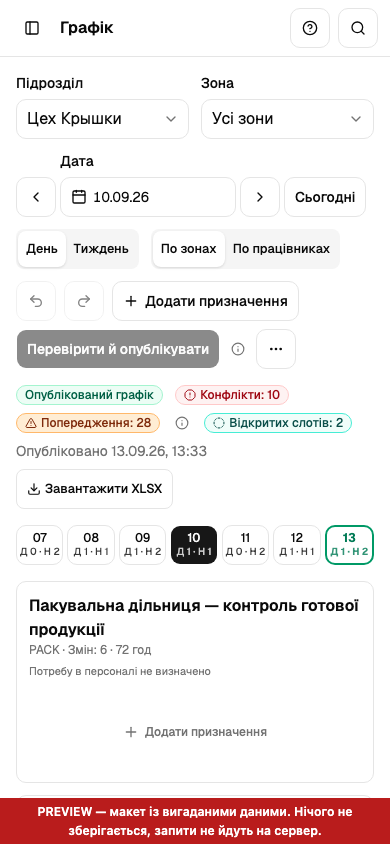
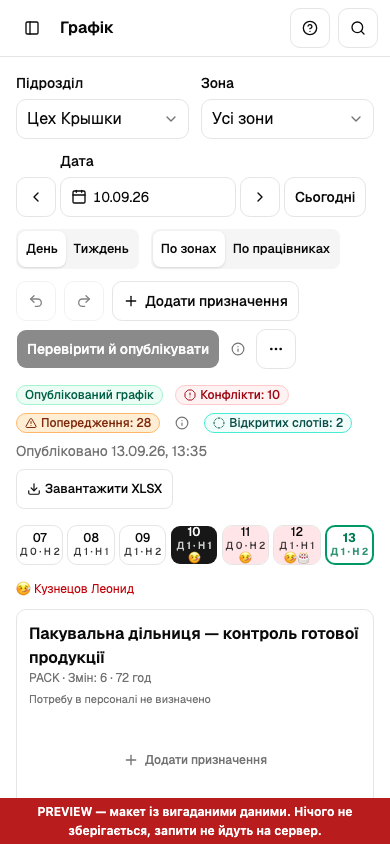
fix(schedule): event column tints, today tint restored, selection cleared on close, read-only reason
Day columns get a translucent tint by their most important event
(holiday rose, absence red, birthday violet) and the header lists who
is absent or celebrating with an icon; today keeps its green tint under
the bold frame. Closing the shift Sheet drops the card selection, so the
pressed style never outlives the panel. When the Sheet actions are
disabled, an information icon explains why (stale plan, review, existing
draft, rights, zone scope, running command).

diff --git a/apps/admin-web/src/shared/ui/resource-calendar/resource-calendar.tsx b/apps/admin-web/src/shared/ui/resource-calendar/resource-calendar.tsx
@@ -52,6 +52,8 @@ interface ResourceCalendarProps {
   readonly detail?: ReactNode;
   readonly onDate: (date: string) => void;
   readonly onSelect: (selection: CalendarSelection) => void;
+  /** Closing the details drops the selection, so the pressed card style never outlives the panel. */
+  readonly onClearSelection?: () => void;
   readonly onCreate: (selection: CalendarSelection) => void;
   /** Items matching the emphasis get a ring and the rest fade, so a count becomes visible places. */
   readonly emphasis?: CalendarEmphasis | null;
@@ -62,6 +64,22 @@ interface ResourceCalendarProps {
   ) => void;
 }
 export type CalendarEmphasis = 'unpublished' | 'WARN' | 'BLOCK';
+/** Translucent column tints by day event; the header text and icons carry the meaning. */
+const HEADER_TINT = {
+  holiday: 'bg-rose-500/15 dark:bg-rose-400/20',
+  absence: 'bg-red-500/12 dark:bg-red-400/20',
+  birthday: 'bg-violet-500/15 dark:bg-violet-400/20',
+} as const;
+const COLUMN_TINT = {
+  holiday: 'bg-rose-500/6 dark:bg-rose-400/10',
+  absence: 'bg-red-500/5 dark:bg-red-400/10',
+  birthday: 'bg-violet-500/6 dark:bg-violet-400/10',
+} as const;
+const EVENT_TEXT = {
+  holiday: 'text-rose-700 dark:text-rose-300',
+  absence: 'text-red-700 dark:text-red-300',
+  birthday: 'text-violet-700 dark:text-violet-300',
+} as const;
 function emphasized(item: CalendarItem, emphasis: CalendarEmphasis): boolean {
   if (emphasis === 'unpublished') return !!item.unpublished && !item.readonly;
   return item.issue === emphasis;
@@ -284,12 +302,18 @@ export function ResourceCalendar(props: ResourceCalendarProps) {
                   date.today &&
                     selectedDate !== date.id &&
                     'border-2 border-emerald-600 font-bold text-emerald-700 dark:border-emerald-500 dark:text-emerald-300',
+                  date.tone && selectedDate !== date.id && HEADER_TINT[date.tone],
                 )}
                 onClick={() => onDate(date.id)}
               >
                 <span>{date.shortLabel}</span>
                 {date.summary && <span className="text-[10px] opacity-80">{date.summary}</span>}
                 {date.holiday && <span className="text-[10px]">🎉</span>}
+                {date.events && date.events.length > 0 && (
+                  <span className="text-[10px]">
+                    {date.events.map((event) => event.slice(0, 2)).join('')}
+                  </span>
+                )}
               </Button>
             ))}
           </div>
@@ -302,7 +326,13 @@ export function ResourceCalendar(props: ResourceCalendarProps) {
                   <span className="mr-2 text-rose-700 dark:text-rose-300">🎉 {day.holiday}</span>
                 )}
                 {day.events?.map((event) => (
-                  <span key={event} className="mr-2 text-violet-700 dark:text-violet-300">
+                  <span
+                    key={event}
+                    className={cn(
+                      'mr-2',
+                      event.startsWith('🎂') ? EVENT_TEXT.birthday : EVENT_TEXT.absence,
+                    )}
+                  >
                     {event}
                   </span>
                 ))}
@@ -347,9 +377,9 @@ export function ResourceCalendar(props: ResourceCalendarProps) {
                     className={cn(
                       'w-34 whitespace-normal px-2 py-1.5 text-center align-top',
                       date.today &&
-                        'shadow-[inset_3px_0_0_var(--color-emerald-600),inset_-3px_0_0_var(--color-emerald-600),inset_0_3px_0_var(--color-emerald-600)] dark:shadow-[inset_3px_0_0_var(--color-emerald-500),inset_-3px_0_0_var(--color-emerald-500),inset_0_3px_0_var(--color-emerald-500)]',
+                        'bg-emerald-500/15 shadow-[inset_3px_0_0_var(--color-emerald-600),inset_-3px_0_0_var(--color-emerald-600),inset_0_3px_0_var(--color-emerald-600)] dark:bg-emerald-400/20 dark:shadow-[inset_3px_0_0_var(--color-emerald-500),inset_-3px_0_0_var(--color-emerald-500),inset_0_3px_0_var(--color-emerald-500)]',
                       date.readonly && 'bg-muted/40 text-muted-foreground',
-                      date.holiday && 'bg-rose-50/70 dark:bg-rose-950/40',
+                      date.tone && !date.today && HEADER_TINT[date.tone],
                       // The container clips at its rounded corners; give the corner cells the same
                       // radius so a solid header or frame follows the curve instead of being cut.
                       index === model.dates.length - 1 && 'rounded-tr-lg',
@@ -390,7 +420,7 @@ export function ResourceCalendar(props: ResourceCalendarProps) {
                         key={event}
                         className={cn(
                           'block text-[11px] font-normal [overflow-wrap:anywhere]',
-                          'text-violet-700 dark:text-violet-300',
+                          event.startsWith('🎂') ? EVENT_TEXT.birthday : EVENT_TEXT.absence,
                         )}
                       >
                         {event}
@@ -420,13 +450,16 @@ export function ResourceCalendar(props: ResourceCalendarProps) {
                       key={cell.date}
                       className={cn(
                         'whitespace-normal p-1.5 align-top',
+                        model.dates[index]?.tone &&
+                          !model.dates[index]?.today &&
+                          COLUMN_TINT[model.dates[index].tone],
                         rowIndex === rows.length - 1 &&
                           index === row.cells.length - 1 &&
                           'rounded-br-lg',
                         // Wall-calendar slider: a solid frame drawn with inset shadows, which
                         // neither the collapsed borders nor the rounded container can clip.
                         model.dates[index]?.today &&
-                          'shadow-[inset_3px_0_0_var(--color-emerald-600),inset_-3px_0_0_var(--color-emerald-600)] dark:shadow-[inset_3px_0_0_var(--color-emerald-500),inset_-3px_0_0_var(--color-emerald-500)]',
+                          'bg-emerald-500/8 shadow-[inset_3px_0_0_var(--color-emerald-600),inset_-3px_0_0_var(--color-emerald-600)] dark:bg-emerald-400/10 dark:shadow-[inset_3px_0_0_var(--color-emerald-500),inset_-3px_0_0_var(--color-emerald-500)]',
                         model.dates[index]?.today &&
                           rowIndex === rows.length - 1 &&
                           'shadow-[inset_3px_0_0_var(--color-emerald-600),inset_-3px_0_0_var(--color-emerald-600),inset_0_-3px_0_var(--color-emerald-600)] dark:shadow-[inset_3px_0_0_var(--color-emerald-500),inset_-3px_0_0_var(--color-emerald-500),inset_0_-3px_0_var(--color-emerald-500)]',
@@ -448,7 +481,10 @@ export function ResourceCalendar(props: ResourceCalendarProps) {
         open={detailOpen && !!selectedCell && !!detail}
         title={selectedResource?.title ?? model.label}
         description={selectedCell?.label}
-        onClose={() => setDetailOpen(false)}
+        onClose={() => {
+          setDetailOpen(false);
+          props.onClearSelection?.();
+        }}
         onRestoreFocus={() => {
           if (focusOrigin?.trigger.isConnected) focusOrigin.trigger.focus();
           else if (focusOrigin?.calendar instanceof HTMLElement) focusOrigin.calendar.focus();

diff --git a/packages/i18n/src/schedule-workspace.ts b/packages/i18n/src/schedule-workspace.ts
@@ -291,6 +291,11 @@ export const scheduleWorkspaceEn = {
   attentionReplacements: 'Shifts without a person in the next 7 days: {count}',
   attentionNone: 'Nothing needs attention today',
   openSchedule: 'Open schedule',
+  editBlockedReview: 'The plan is awaiting approval: return it to draft to edit.',
+  editBlockedDraftExists: 'A draft of this month already exists: switch to it to edit.',
+  editBlockedRights: 'Your role cannot edit this schedule.',
+  editBlockedRead: 'The plan could not be read: retry before editing.',
+  editBlockedLegacy: 'An older local draft needs review before editing continues.',
   inForce: 'In force',
   staffing: 'Staffing requirements',
   staffingHint:
@@ -779,6 +784,11 @@ export const scheduleWorkspaceUk: ScheduleWorkspaceMessages = {
   attentionReplacements: 'Змін без людини на найближчі 7 днів: {count}',
   attentionNone: 'Сьогодні нічого не потребує уваги',
   openSchedule: 'Відкрити графік',
+  editBlockedReview: 'План на погодженні: поверніть його в чернетку, щоб редагувати.',
+  editBlockedDraftExists: 'Чернетка цього місяця вже існує: перейдіть до неї, щоб редагувати.',
+  editBlockedRights: 'Ваша роль не може редагувати цей графік.',
+  editBlockedRead: 'План не вдалося прочитати: повторіть спробу перед редагуванням.',
+  editBlockedLegacy: 'Стара локальна чернетка потребує перегляду, перш ніж редагувати далі.',
   inForce: 'Діє',
   staffing: 'Потреба в персоналі',
   staffingHint:
@@ -1269,6 +1279,13 @@ export const scheduleWorkspaceRu: ScheduleWorkspaceMessages = {
   attentionReplacements: 'Смен без человека на ближайшие 7 дней: {count}',
   attentionNone: 'Сегодня ничего не требует внимания',
   openSchedule: 'Открыть график',
+  editBlockedReview: 'План на согласовании: верните его в черновик, чтобы редактировать.',
+  editBlockedDraftExists:
+    'Черновик этого месяца уже существует: перейдите к нему, чтобы редактировать.',
+  editBlockedRights: 'Ваша роль не может редактировать этот график.',
+  editBlockedRead: 'План не удалось прочитать: повторите попытку перед редактированием.',
+  editBlockedLegacy:
+    'Старый локальный черновик требует просмотра, прежде чем редактировать дальше.',
   inForce: 'Действует',
   staffing: 'Потребность в персонале',
   staffingHint:

diff --git a/apps/admin-web/src/features/schedule-management/ui/resource-schedule.tsx b/apps/admin-web/src/features/schedule-management/ui/resource-schedule.tsx
@@ -265,6 +265,10 @@ export function ResourceSchedule({
         selectedDate={selectedDate}
         selection={selection}
         onSelect={select}
+        onClearSelection={() => {
+          setPicked(null);
+          setEditor(null);
+        }}
         onCreate={create}
         onDate={(date) => {
           onDate(date);
@@ -383,7 +387,11 @@ export function ResourceSchedule({
                     zoneId={selectedItem.zoneId ?? null}
                     employeeId={selectedItem.employeeId}
                   />
-                  <div className="flex flex-wrap gap-2" role="group" aria-label={t.wholeAssignment}>
+                  <div
+                    className="flex flex-wrap items-center gap-2"
+                    role="group"
+                    aria-label={t.wholeAssignment}
+                  >
                     <IconButton
                       icon={PencilIcon}
                       label={t.editAssignment}
@@ -422,10 +430,17 @@ export function ResourceSchedule({
                       disabled={!editable || !locallyChanged}
                       onClick={revertSelected}
                     />
+                    {!editable && (
+                      <InfoTip
+                        text={
+                          w.readonlyReason ??
+                          (selectedItem && !zoneAllowed(w.rights.zones, selectedItem.zoneId)
+                            ? t.zoneScope
+                            : t.editBlockedRights)
+                        }
+                      />
+                    )}
                   </div>
-                  {w.writable && !editable && (
-                    <p className="text-sm text-muted-foreground">{t.zoneScope}</p>
-                  )}
                 </>
               ) : (
                 <>

diff --git a/apps/admin-web/src/features/schedule-management/ui/schedule-workspace.test.tsx b/apps/admin-web/src/features/schedule-management/ui/schedule-workspace.test.tsx
@@ -1041,7 +1041,12 @@ describe('schedule workspace', () => {
     expect(
       within(sheet).getByRole('button', { name: t.editAssignment }).hasAttribute('disabled'),
     ).toBe(true);
-    expect(within(sheet).getByText(t.zoneScope)).toBeTruthy();
+    // The reason for the disabled actions lives in the information tip next to them.
+    expect(
+      within(sheet)
+        .getByRole('group', { name: t.wholeAssignment })
+        .querySelector('[data-info-tip]'),
+    ).not.toBeNull();
   });
   it('retains selected assignment context when changing grouping and opens the existing editor', async () => {
     mockApi({ status: 'DRAFT' });
@@ -1063,9 +1068,11 @@ describe('schedule workspace', () => {
     );
     await waitFor(() => expect(document.activeElement).toBe(origin));
     fireEvent.click(screen.getByRole('radio', { name: t.people }));
+    // Closing the details drops the selection; the card is pressed only while the panel is open.
     const assignment = screen.getByRole('button', { name: /Линия 1, 05/ });
-    expect(assignment.getAttribute('aria-pressed')).toBe('true');
+    expect(assignment.getAttribute('aria-pressed')).toBe('false');
     fireEvent.click(assignment);
+    expect(assignment.getAttribute('aria-pressed')).toBe('true');
     expect(screen.getByRole('heading', { name: t.wholeAssignment })).toBeTruthy();
     fireEvent.click(screen.getByRole('button', { name: t.editAssignment }));
     expect(screen.getByRole('combobox', { name: s.employee }).hasAttribute('disabled')).toBe(true);

diff --git a/apps/admin-web/src/features/schedule-management/model/calendar.ts b/apps/admin-web/src/features/schedule-management/model/calendar.ts
@@ -440,15 +440,31 @@ function dateEvents(
   date: string,
   employees: ReadonlyMap<string, { readonly fullName: string }>,
   t: Messages['scheduleWorkspace'],
-): { holiday?: string; events?: string[] } {
+): { holiday?: string; events?: string[]; tone?: 'holiday' | 'absence' | 'birthday' } {
   if (!events) return {};
+  const name = (id: string) => employees.get(id)?.fullName ?? t.unknownEmployee;
   const holiday = events.holidays.find((row) => row.date === date);
-  const names = events.birthdays
+  const absent = events.absences
+    .filter((row) => row.status === 'APPROVED' && row.from <= date && date <= row.to)
+    .map(
+      (row) =>
+        `${row.type === 'SICK' ? '🤒' : row.type === 'VACATION' ? '🏖' : '🏠'} ${name(row.employeeId)}`,
+    );
+  const birthdays = events.birthdays
     .filter((row) => row.date === date)
-    .map((row) => `🎂 ${employees.get(row.employeeId)?.fullName ?? t.unknownEmployee}`);
+    .map((row) => `🎂 ${name(row.employeeId)}`);
+  const lines = [...absent, ...birthdays];
+  const tone = holiday
+    ? 'holiday'
+    : absent.length > 0
+      ? 'absence'
+      : birthdays.length > 0
+        ? 'birthday'
+        : undefined;
   return {
     ...(holiday ? { holiday: holidayName(holiday.code, t) } : {}),
-    ...(names.length > 0 ? { events: names } : {}),
+    ...(lines.length > 0 ? { events: lines } : {}),
+    ...(tone ? { tone } : {}),
   };
 }
 

diff --git a/apps/admin-web/src/features/schedule-management/model/use-workspace.ts b/apps/admin-web/src/features/schedule-management/model/use-workspace.ts
@@ -304,6 +304,28 @@ export function useWorkspace() {
     versionsQuery.isSuccess &&
     !hasDraft;
   const writable = (canEdit || canStartDraft) && commandReady;
+  /** Why the plan cannot be edited right now, in the planner's words; null when writable. */
+  const readonlyReason: string | null = writable
+    ? null
+    : viewingPublished
+      ? t.viewingPublished
+      : !version
+        ? null
+        : stale
+          ? t.publishBlockedStale
+          : legacy
+            ? t.editBlockedLegacy
+            : detailQuery.isError
+              ? t.editBlockedRead
+              : busy || pendingCommand || commandQueue.recoveryError
+                ? t.publishBlockedBusy
+                : version.status === 'IN_REVIEW'
+                  ? t.editBlockedReview
+                  : version.status === 'PUBLISHED' && rights.edit && !rights.publish && hasDraft
+                    ? t.editBlockedDraftExists
+                    : !rights.edit && !rights.publish
+                      ? t.editBlockedRights
+                      : null;
   const canCreateDraft =
     !!actorId && !commandsBlocked && rights.edit && !!orgUnitId && versionsQuery.isSuccess;
   const canRestoreDraft =
@@ -505,6 +527,7 @@ export function useWorkspace() {
       if (pending && ownsResponse()) write.mutate(pending);
     },
     writable,
+    readonlyReason,
     canEdit,
     canStartDraft,
     commandReady,

diff --git a/apps/admin-web/src/shared/ui/resource-calendar/model.ts b/apps/admin-web/src/shared/ui/resource-calendar/model.ts
@@ -54,8 +54,10 @@ export interface CalendarDate {
   readonly readonly?: boolean;
   /** A public holiday of the site region; the column is tinted and named. */
   readonly holiday?: string;
-  /** Short event lines under the date, for example birthdays. */
+  /** Short event lines under the date, for example birthdays or people absent that day. */
   readonly events?: readonly string[];
+  /** Column tint for the most important event of the day; text and icons carry the meaning. */
+  readonly tone?: 'holiday' | 'absence' | 'birthday';
 }
 export interface CalendarViewModel {
   readonly label: string;
